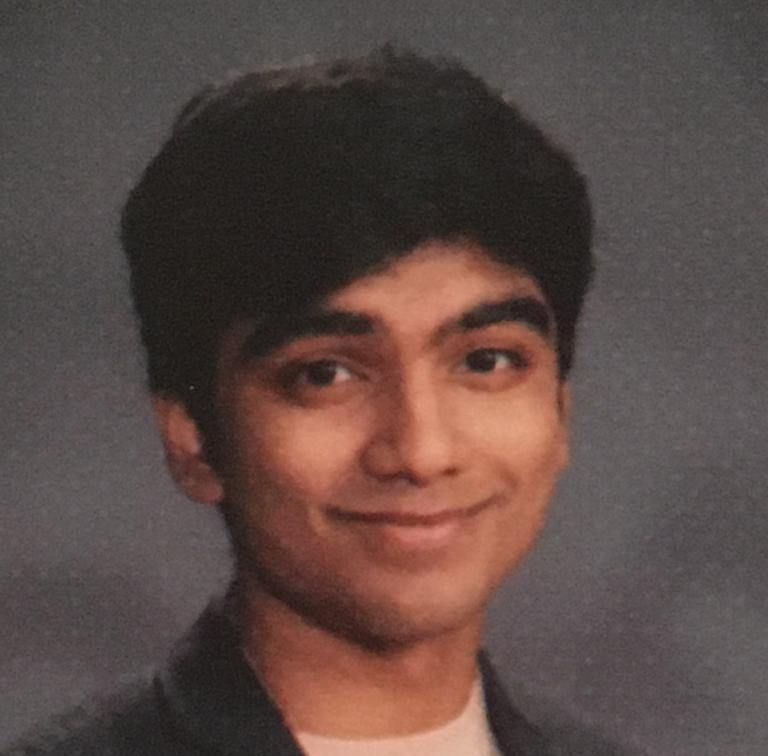
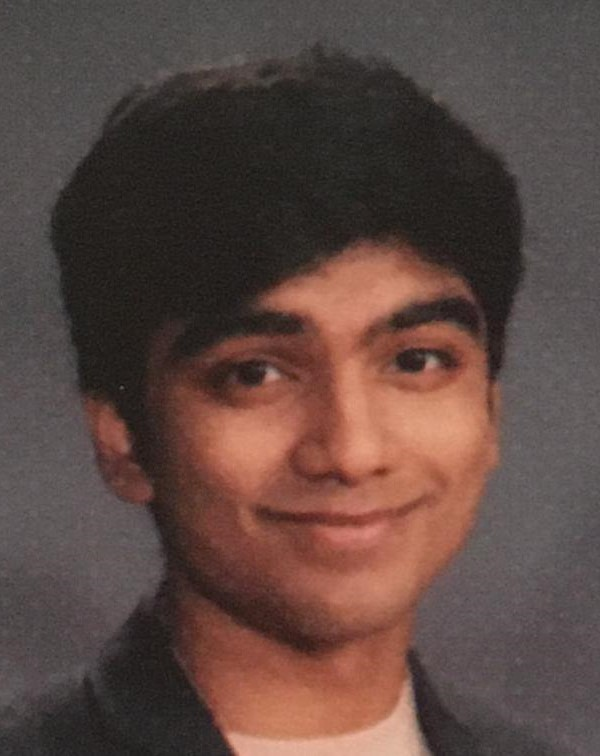
adding pranav

diff --git a/about.html b/about.html
@@ -85,29 +85,26 @@
                 <div class="col-12">
                     <div class="welcome-content">
                         <header class="entry-header">
-                            <h2 class="entry-title2">Chief Executive Officer</h2>
-                        </header><!-- .entry-header -->
+                            <h2 class="entry-title2">Chief Executives</h2>
+                        </header>
                         <div class="container">
                             <div class="row" style="padding-top:40px;">
-                                <div class="col-sm">
-                                   
-                                    <div class="entry-content2">
-                                        
-                                    </div>
+                                <div class="col-sm-2">
                                 </div>
                                 
-                                <div class="col-sm">
-                                    
+                                <div class="col-sm-4">
+                                    <h6 style="color:#ff5a00;text-align: center;padding-bottom: 15px">Chief Executive Officer</h6>
                                     <img src="officer_pics\Mahad_Sohail_CEO.jpg" style="padding-left:40px;padding-right:40px;" alt="1">
                                     <div class="entry-content2">
                                         <p style="text-align: center; font-size: 24px;">Mahad Sohail</p>
                                     </div>
                                 </div>
                                 
-                                <div class="col-sm">
-                                    
+                                <div class="col-sm-4">
+                                    <h6 style="color:#ff5a00;text-align: center;padding-bottom: 15px;">Founder, Current Advisor</h6>
+                                    <img src="officer_pics\pranav_eranki_final.jpg" style="padding-left:40px;padding-right:40px;" alt="1">
                                     <div class="entry-content2">
-                                   
+                                        <p style="text-align: center; font-size: 24px;">Pranav Eranki</p>
                                     </div>
                                 </div>
                                 
@@ -175,223 +172,6 @@
                             </div>
                         </div>
                         
-<!--                         
-                        <header class="entry-header">
-                            <h2 class="entry-title2">Chapter Leads & Coordinators</h2>
-                        </header>
-                                    
-                        <div class="container">
-                            <div class="row" style="padding-top:40px;">
-                                <div class="col-sm">
-                                    <div class="entry-content2">
-                                        <h5 style=color:#ff5a00>Northeastern Chapter Lead</h5>
-                                    </div>
-                                    <img src="officer_pics/mahad_sohail5.png" style="padding-top:25px" alt="3">
-                                    <div class="entry-content2">
-                                        <p>Mahad Sohail</p>
-                                    </div>
-                                    
-                                    <div class="entry-content2">
-                                        <h5 style="color:#ff5a00;padding-bottom: 20px;">Illinois Chapter Lead</h5>
-                                    </div>
-                                    <img src="volunteer_pics/Shea.png" style="padding-top:25px" alt="3">
-                                    <div class="entry-content2">
-                                        <p style=padding-bottom:54px>Shea Rathburn</p>
-                                    </div>
-                                    
-                                    <div class="entry-content2">
-                                        <h5 style="color:#ff5a00;padding-bottom: 20px;">Michigan/Florida Chapter Lead</h5>
-                                    </div>
-                                    <img src="officer_pics/Humza_Irfan.png" style="padding-top:25px" alt="3">
-                                    <div class="entry-content2">
-                                        <p style=padding-bottom:54px>Humza Irfan</p>
-                                    </div>
-                                    
-                                    <div class="entry-content2">
-                                        <h5 style="color:#ff5a00">Washington Chapter Lead</h5>
-                                    </div>
-                                    <img src="volunteer_pics/Aadhit_Shreeram5.png" style="padding-top:25px" alt="3">
-                                    <div class="entry-content2">
-                                        <p style=padding-bottom:54px>Aadhit Shreeram</p>
-                                    </div>
-                                    
-                                    
-                                    
-                                    <div class="entry-content2">
-                                        <h5 style=color:#ff5a00>Sweden Coordinator</h5>
-                                    </div>
-                                    <img src="batch2pics/Hedieh_Assareh5.png" style="padding-top:25px" alt="3">
-                                    <div class="entry-content2">
-                                        <p>Hedieh Assareh</p>
-                                    </div>
-                                    
-                                    
-                                    <div class="entry-content2">
-                                        <h5 style=color:#ff5a00>Turkey Coordinator</h5>
-                                    </div>
-                                    <img src="batch2pics/Reza_Bayat5.png" style="padding-top:25px" alt="3">
-                                    <div class="entry-content2">
-                                        <p>Reza Bayat</p>
-                                    </div>
-                                    
-                                    <div class="entry-content2">
-                                        <h5 style="color:#ff5a00;">Dubai Coordinator</h5>
-                                    </div>
-                                    <img src="batch2pics/Farraz_Armin5.png" style="padding-top:25px" alt="3">
-                                    <div class="entry-content2">
-                                        <p style="padding-bottom: 55px">Farraz Armin</p>
-                                    </div>
-                                    
-                                </div>
-                                
-                                <div class="col-sm" style="padding-left:50px;">
-                                    <div class="entry-content2">
-                                        <h5 style="color:#ff5a00;padding-bottom: 22px;">California Chapter Lead</h5>
-                                    </div>
-                                    <img src="officer_pics/Andrew_Golanka5.png" alt="1">
-                                    <div class="entry-content2">
-                                        <p style=padding-bottom:2px>Andrew Golanka</p>
-                                    </div>
-                                    
-                                    <div class="entry-content2">
-                                        <h5 style="color:#ff5a00;padding-bottom: 20px;">Egypt Chapter Lead</h5>
-                                    </div>
-                                    <img src="volunteer_pics/Awra_Hamad.png" style="padding-top:25px" alt="3">
-                                    <div class="entry-content2">
-                                        <p style=padding-bottom:54px>Arwa Hammad</p>
-                                    </div>
-                                    
-                                    <div class="entry-content2">
-                                        <h5 style="color:#ff5a00;padding-bottom: 20px;">Michigan/Ohio Chapter Lead</h5>
-                                    </div>
-                                    <img src="officer_pics/Arnab_Roy.png" style="padding-top:25px" alt="3">
-                                    <div class="entry-content2">
-                                        <p style=padding-bottom:54px>Arnab Roy</p>
-                                    </div>
-                                    
-                                    
-                                    <div class="entry-content2">
-                                        <h5 style="color:#ff5a00;">Washington Chapter Lead</h5>
-                                    </div>
-                                    <img src="officer_pics/Neerad_Bondhi.png" style="padding-top:25px" alt="3">
-                                    <div class="entry-content2">
-                                        <p style=padding-bottom:54px>Neerad Bondhi</p>
-                                    </div>
-                                    
-                                    <div class="entry-content2">
-                                        <h5 style=color:#ff5a00>Sweden Coordinator</h5>
-                                    </div>
-                                    <img src="batch2pics/Reza_Assareh5.png" style="padding-top:25px" alt="3">
-                                    <div class="entry-content2">
-                                        <p style=padding-bottom:5px>Reza Assareh</p>
-                                    </div>
-                                    
-                                    
-                                    <div class="entry-content2">
-                                        <h5 style=color:#ff5a00>Turkey Coordinator</h5>
-                                    </div>
-                                    <img src="batch2pics/Nazanin_Ziaddini5.png" style="padding-top:25px" alt="3">
-                                    <div class="entry-content2">
-                                        <p>Nazanin Ziaddini</p>
-                                    </div>
-                                    
-                                    <div class="entry-content2">
-                                        <h5 style="color:#ff5a00;">India Coordinator</h5>
-                                    </div>
-                                    <img src="officer_pics/Umesh_Radakrishna5.png" style="padding-top:25px" alt="3">
-                                    <div class="entry-content2">
-                                        <p style=padding-bottom:57px>Umesh Radhakrishna</p>
-                                    </div>
-                                </div>
-                                
-                                <div class="col-sm" style="padding-left:50px;">
-                                    <div class="entry-content2">
-                                        <h5 style="color:#ff5a00;padding-bottom: 22px;">California Chapter Lead</h5>
-                                    </div>
-                                    <img src="volunteer_pics/Ashwath_Kannan5.png" alt="1">
-                                    <div class="entry-content2">
-                                        <p style=padding-bottom:2px>Aashwath Kannan</p>
-                                    </div>
-                                    
-                                    <div class="entry-content2">
-                                        <h5 style="color:#ff5a00;padding-bottom: 20px;">Texas Chapter Lead</h5>
-                                    </div>
-                                    <img src="volunteer_pics/Carolyn_Maria5.png" style="padding-top:25px" alt="3">
-                                    <div class="entry-content2">
-                                        <p style=padding-bottom:50px>Carolyn Maria</p>
-                                    </div>
-                                    
-                                    <div class="entry-content2">
-                                        <h5 style="color:#ff5a00;padding-bottom: 50px;">Virginia Chapter Lead</h5>
-                                    </div>
-                                    <img src="officer_pics/Sammie_Kennedy.png" style="padding-top:25px" alt="3">
-                                    <div class="entry-content2">
-                                        <p style=padding-bottom:55px>Sammie Kennedy</p>
-                                    </div>
-                                    
-                                    <div class="entry-content2">
-                                        <h5 style="color:#ff5a00;">New Jersey Chapter Lead</h5>
-                                    </div>
-                                    <img src="officer_pics/Praneet_Kaki.png" style="padding-top:25px" alt="3">
-                                    <div class="entry-content2">
-                                        <p style=padding-bottom:50px>Praneet Kaki</p>
-                                    </div>
-                                    
-                                    <div class="entry-content2">
-                                        <h5 style=color:#ff5a00>Sweden Coordinator</h5>
-                                    </div>
-                                    <img src="batch2pics/Sam_Dautovic5.png" style="padding-top:25px" alt="3">
-                                    <div class="entry-content2">
-                                        <p style=padding-bottom:5px>Sam Dautovic</p>
-                                    </div>
-                                    
-                                    
-                                    <div class="entry-content2">
-                                        <h5 style=color:#ff5a00>Turkey Coordinator</h5>
-                                    </div>
-                                    <img src="batch2pics/Hamid_Shahbazi5.png" style="padding-top:25px" alt="3">
-                                    <div class="entry-content2">
-                                        <p>Hamid Shahbazi</p>
-                                    </div>
-                                </div>
-                                
-                                
-                                <div class="col-sm" style="padding-left:50px;">
-                                    <div class="entry-content2">
-                                        <h5 style="color:#ff5a00;padding-bottom: 0px;">Pennsylvania Chapter Lead</h5>
-                                    </div>
-                                    <img src="volunteer_pics/Casey_Epstein.png" style="padding-top:20px" alt="3">
-                                    <div class="entry-content2">
-                                        <p style=padding-bottom:2px>Casey Epstein</p>
-                                    </div>
-                                    
-                                    <div class="entry-content2">
-                                        <h5 style="color:#ff5a00;padding-bottom: 20px;">Canada Chapter Lead</h5>
-                                    </div>
-                                    <img src="officer_pics/Neil_Shen.png" style="padding-top:25px" alt="3">
-                                    <div class="entry-content2">
-                                        <p style=padding-bottom:54px>Neil Shen</p>
-                                    </div>
-                                    
-                                    
-                                    <div class="entry-content2">
-                                        <h5 style="color:#ff5a00;padding-bottom: 20px;">New Jersey Chapter Lead</h5>
-                                    </div>
-                                    <img src="officer_pics/Lekha_Rak.png" style="padding-top:25px" alt="3">
-                                    <div class="entry-content2">
-                                        <p style=padding-bottom:57px>Lekha Rakundlia</p>
-                                    </div>
-                                    
-                                    <div class="entry-content2">
-                                        <h5 style="color:#ff5a00;padding-bottom: 20px;">Canada Chapter Lead</h5>
-                                    </div>
-                                    <img src="officer_pics/stanford_guo.png" style="padding-top:25px" alt="3">
-                                    <div class="entry-content2">
-                                        <p style=padding-bottom:54px>Stanford Guo</p>
-                                    </div>
-                                </div>
-                            </div>
-                        </div> -->
                     </div><!-- .welcome-content -->
                 </div><!-- .col -->
             </div><!-- .row -->
